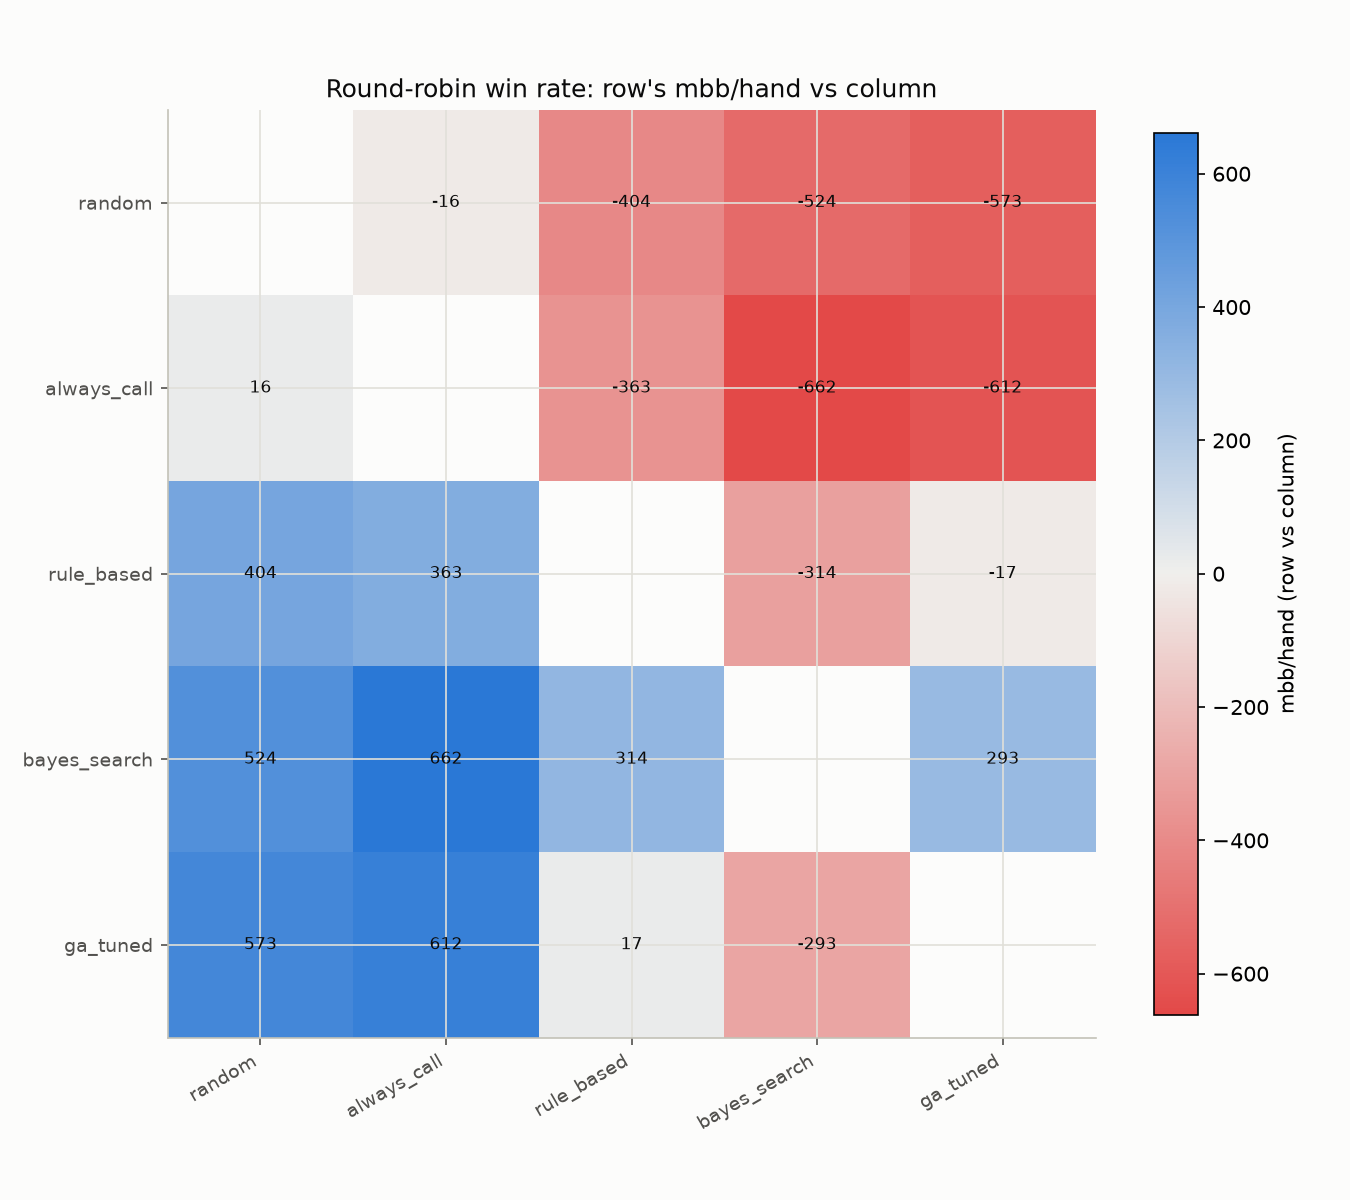
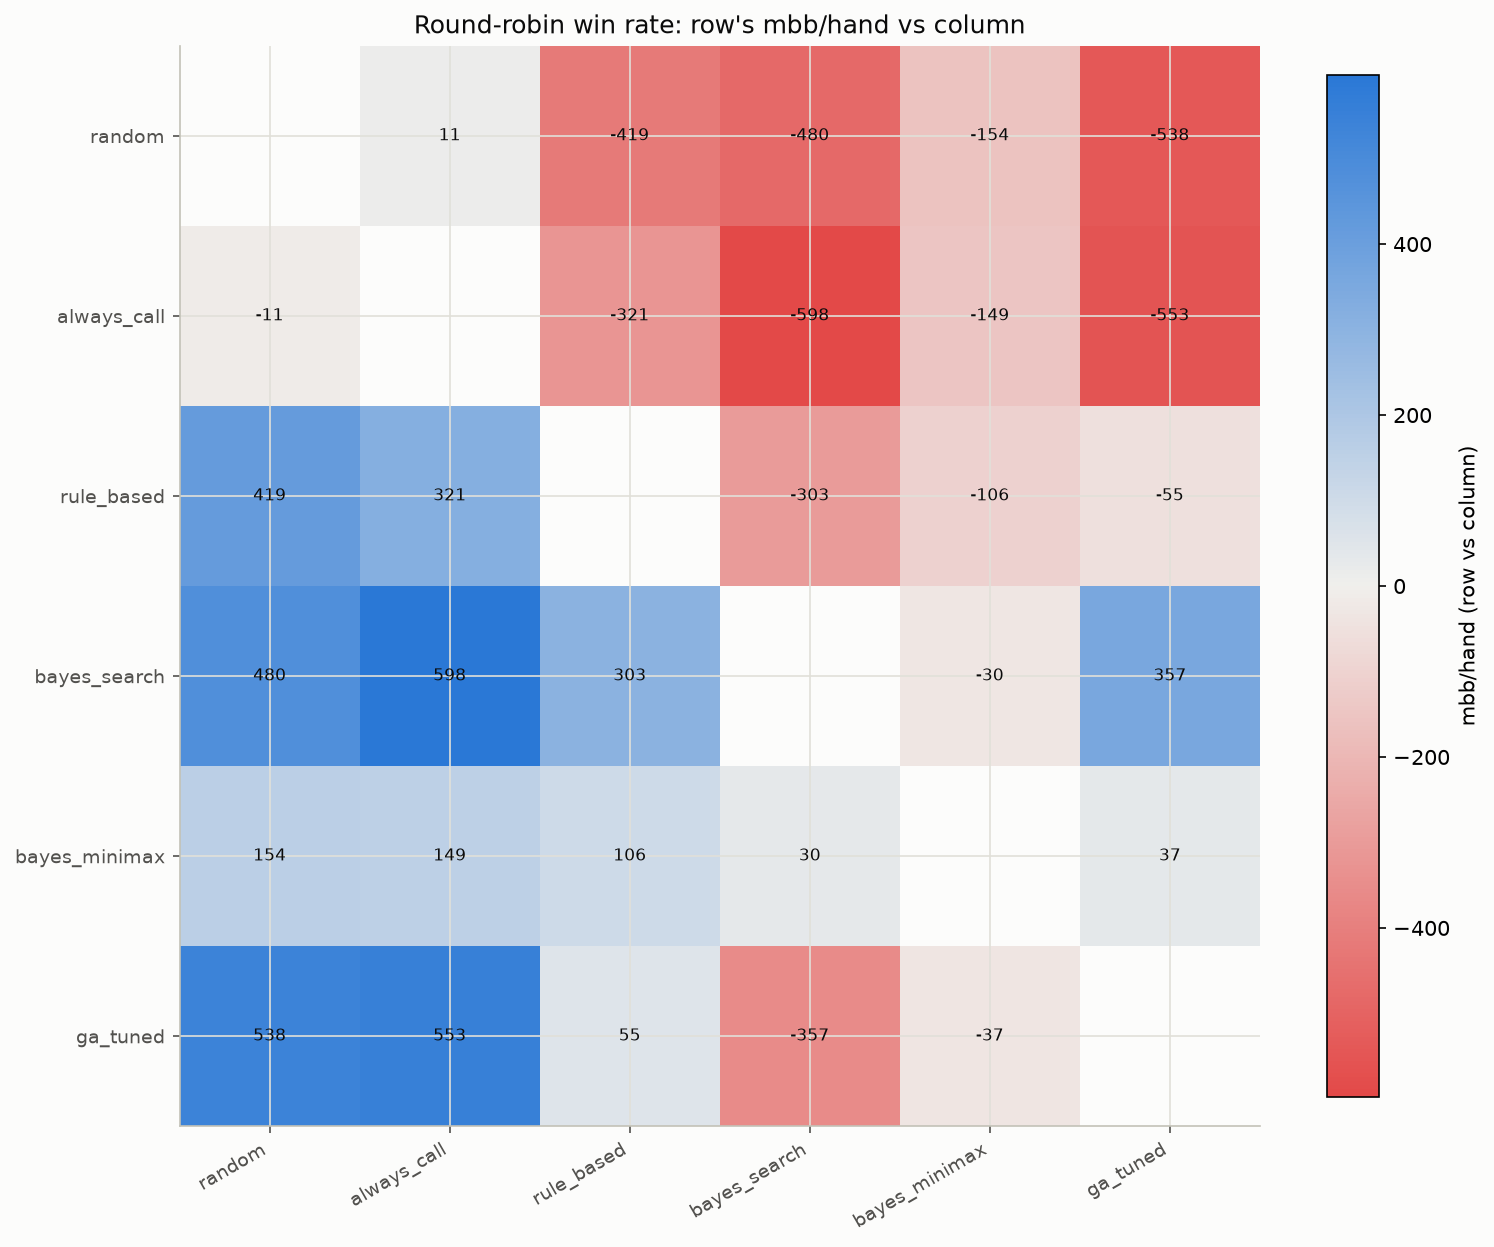
[Feature]- Add minimax search variant to the game-tree search

diff --git a/sleight_of_hand/search/expectiminimax.py b/sleight_of_hand/search/expectiminimax.py
@@ -4,11 +4,17 @@ The tree has three node kinds:
   * MAX nodes -- our own decision points; pick the action maximizing EV.
   * chance nodes -- the community-card deal; take the probability-weighted
     average over remaining deck outcomes.
-  * opponent nodes -- the opponent's decision points, which are *not*
-    modeled adversarially (this is expectiminimax, not minimax): we take
-    the probability-weighted average over the opponent's actions under the
-    shared heuristic policy model, exactly as the Bayesian likelihood model
-    does. That policy's parameters are the same ones the GA tunes.
+  * opponent nodes -- the opponent's decision points, combined one of two
+    ways selected by the ``mode`` argument:
+      - ``"expectiminimax"`` (default): the probability-weighted average
+        over the opponent's actions under the shared heuristic policy
+        model, exactly as the Bayesian likelihood model does. That policy's
+        parameters are the same ones the GA tunes. This best-responds to
+        what the opponent *probably* does.
+      - ``"minimax"``: the opponent picks the action that *minimizes* our
+        EV (equivalently, since Leduc is zero-sum, maximizes their own) --
+        the classical adversarial game-tree rule: a paranoid model that
+        ignores the opponent policy and assumes the worst legal reply.
 
 The one piece of imperfect information -- the opponent's hidden card -- is
 resolved by fixing a hypothesis for it once, at the root, weighted by the
@@ -29,9 +35,18 @@ from ..engine.state import GameState
 from ..policy.heuristic import DEFAULT_PARAMS, PolicyParams, action_probs
 
 
-def node_value(state: GameState, my_player: int, opponent_params: PolicyParams = DEFAULT_PARAMS) -> float:
+def node_value(
+    state: GameState,
+    my_player: int,
+    opponent_params: PolicyParams = DEFAULT_PARAMS,
+    mode: str = "expectiminimax",
+) -> float:
     """Expected value to `my_player` of `state`, given both hole cards are
-    already fixed in `state.private` (a single opponent-card hypothesis)."""
+    already fixed in `state.private` (a single opponent-card hypothesis).
+
+    `mode` selects how opponent nodes are combined: `"expectiminimax"`
+    (policy-weighted average, the default) or `"minimax"` (worst-case min).
+    """
     if state.done:
         return LeducGame.payoffs(state)[my_player]
 
@@ -39,18 +54,29 @@ def node_value(state: GameState, my_player: int, opponent_params: PolicyParams =
         total = 0.0
         for card, p in LeducGame.possible_community_cards(state, state.private):
             ns = LeducGame.deal_community(state, card)
-            total += p * node_value(ns, my_player, opponent_params)
+            total += p * node_value(ns, my_player, opponent_params, mode)
         return total
 
     legal = LeducGame.legal_actions(state)
-    if state.to_act == my_player:
-        return max(node_value(LeducGame.apply_action(state, a), my_player, opponent_params) for a in legal)
+    children = {a: node_value(LeducGame.apply_action(state, a), my_player, opponent_params, mode) for a in legal}
 
+    if state.to_act == my_player:
+        return max(children.values())
+
+    if mode == "minimax":
+        # Paranoid adversarial node: the opponent plays the reply that
+        # minimizes our EV (== maximizes theirs, Leduc being zero-sum).
+        return min(children.values())
+
+    # expectiminimax: weight each opponent action by the shared policy model.
     opponent = state.to_act
     opp_card = state.private[opponent]
     to_call = state.round_state.to_call(opponent)
     probs = action_probs(opp_card, state.public, legal, to_call, params=opponent_params)
-    return sum(p * node_value(LeducGame.apply_action(state, a), my_player, opponent_params) for a, p in probs.items())
+    # `action_probs` may omit near-zero-probability actions, so sum over its
+    # keys (which are a subset of `legal`) rather than indexing it by every
+    # legal action.
+    return sum(p * children[a] for a, p in probs.items())
 
 
 def choose_action(
@@ -58,9 +84,13 @@ def choose_action(
     my_player: int,
     belief: dict[int, float],
     opponent_params: PolicyParams = DEFAULT_PARAMS,
+    mode: str = "expectiminimax",
 ) -> tuple[ActionType, dict[ActionType, float]]:
     """Pick the EV-maximizing action for `my_player`, marginalizing over
     the opponent's possible hidden card weighted by `belief`.
+
+    `mode` is forwarded to `node_value` to choose between expectiminimax
+    (best-respond to the opponent policy) and minimax (worst-case) search.
 
     Returns (best_action, {action: expected_value}) so callers (and the
     demo) can show the full decision, not just the choice.
@@ -76,7 +106,7 @@ def choose_action(
             private = (my_card, opp_card) if my_player == 0 else (opp_card, my_card)
             hypothesis = state.clone(private=private)
             ns = LeducGame.apply_action(hypothesis, a)
-            total += p * node_value(ns, my_player, opponent_params)
+            total += p * node_value(ns, my_player, opponent_params, mode)
         action_values[a] = total
     best = max(action_values, key=action_values.get)
     return best, action_values

diff --git a/tests/test_search.py b/tests/test_search.py
@@ -7,6 +7,7 @@ from sleight_of_hand.agents.bayes_search_agent import BayesSearchAgent
 from sleight_of_hand.engine.actions import ActionType
 from sleight_of_hand.engine.game import LeducGame
 from sleight_of_hand.eval.harness import play_match
+from sleight_of_hand.policy.heuristic import PolicyParams
 from sleight_of_hand.search.expectiminimax import choose_action, node_value
 
 FOLD, CALL, RAISE = ActionType.FOLD, ActionType.CALL, ActionType.RAISE
@@ -69,4 +70,38 @@ def test_bayes_search_agent_does_not_lose_badly_to_random():
     search_agent = BayesSearchAgent(rng=random.Random(2))
     r = RandomAgent(random.Random(3))
     result = play_match(search_agent, r, 600, rng)
+    assert result.mean_a > 0
+
+
+def test_minimax_value_never_exceeds_expectiminimax():
+    # Against a fixed opponent policy model, assuming the worst-case reply
+    # can only lower (never raise) our expected value relative to
+    # best-responding to that policy. The inequality holds at every node,
+    # so it must hold at the root. Here player 0 (the opponent, from
+    # player 1's view) is first to act, giving an opponent node at the root.
+    state = LeducGame.deal_hand_with_cards(2, 0)  # player 1 holds J, opponent holds K
+    v_exp = node_value(state, my_player=1, mode="expectiminimax")
+    v_min = node_value(state, my_player=1, mode="minimax")
+    assert v_min <= v_exp + 1e-9
+
+
+def test_expectiminimax_handles_extreme_opponent_params():
+    # With extreme params the shared policy can drive an action's probability
+    # to ~0 and omit it from the returned dict; expectiminimax must still sum
+    # correctly over the opponent node rather than KeyError on a legal action.
+    extreme = PolicyParams(
+        value_bet_threshold=0.0, call_threshold=0.0, bluff_freq=1.0, aggression=1.0, steepness=1.0
+    )
+    state = LeducGame.deal_hand_with_cards(2, 0)
+    v = node_value(state, my_player=1, opponent_params=extreme, mode="expectiminimax")
+    assert isinstance(v, float)
+
+
+def test_minimax_agent_plays_a_full_match():
+    # The paranoid variant should still be a competent, non-crashing player
+    # that beats a purely passive opponent.
+    rng = random.Random(7)
+    minimax_agent = BayesSearchAgent(rng=random.Random(4), search_mode="minimax")
+    ac = AlwaysCallAgent()
+    result = play_match(minimax_agent, ac, 600, rng)
     assert result.mean_a > 0

diff --git a/sleight_of_hand/agents/bayes_search_agent.py b/sleight_of_hand/agents/bayes_search_agent.py
@@ -23,6 +23,12 @@ class BayesSearchAgent(Agent):
     from observed actions (keeping only the deck-combinatorics prior/public
     card conditioning), which is the "search without an opponent model"
     ablation.
+
+    `search_mode` selects the game-tree rule at opponent nodes:
+    `"expectiminimax"` (best-respond to the policy model, the default) or
+    `"minimax"` (paranoid worst-case). The minimax variant still uses the
+    same Bayesian belief over the hidden card; it only changes how the
+    opponent's *actions* are combined inside the tree.
     """
 
     name = "bayes_search"
@@ -33,10 +39,12 @@ class BayesSearchAgent(Agent):
         use_bayes: bool = True,
         rng: random.Random | None = None,
         name: str | None = None,
+        search_mode: str = "expectiminimax",
     ):
         self.assumed_opponent_params = assumed_opponent_params
         self.use_bayes = use_bayes
         self.rng = rng or random.Random()
+        self.search_mode = search_mode
         if name:
             self.name = name
         self.last_belief = None
@@ -45,7 +53,13 @@ class BayesSearchAgent(Agent):
     def act(self, state: GameState, legal_actions: list[ActionType]) -> ActionType:
         my_player = state.to_act
         model = infer_belief(state, my_player, params=self.assumed_opponent_params, use_actions=self.use_bayes)
-        action, values = choose_action(state, my_player, model.belief, opponent_params=self.assumed_opponent_params)
+        action, values = choose_action(
+            state,
+            my_player,
+            model.belief,
+            opponent_params=self.assumed_opponent_params,
+            mode=self.search_mode,
+        )
         self.last_belief = model.belief
         self.last_action_values = values
         return action

diff --git a/scripts/run_baseline_eval.py b/scripts/run_baseline_eval.py
@@ -34,6 +34,9 @@ def build_agent_factories(ga_genome: PolicyParams | None):
         "always_call": lambda: AlwaysCallAgent(),
         "rule_based": lambda: RuleBasedAgent(rng=random.Random()),
         "bayes_search": lambda: BayesSearchAgent(rng=random.Random()),
+        "bayes_minimax": lambda: BayesSearchAgent(
+            rng=random.Random(), name="bayes_minimax", search_mode="minimax"
+        ),
     }
     if ga_genome is not None:
         factories["ga_tuned"] = lambda: RuleBasedAgent(params=ga_genome, rng=random.Random(), name="ga_tuned")